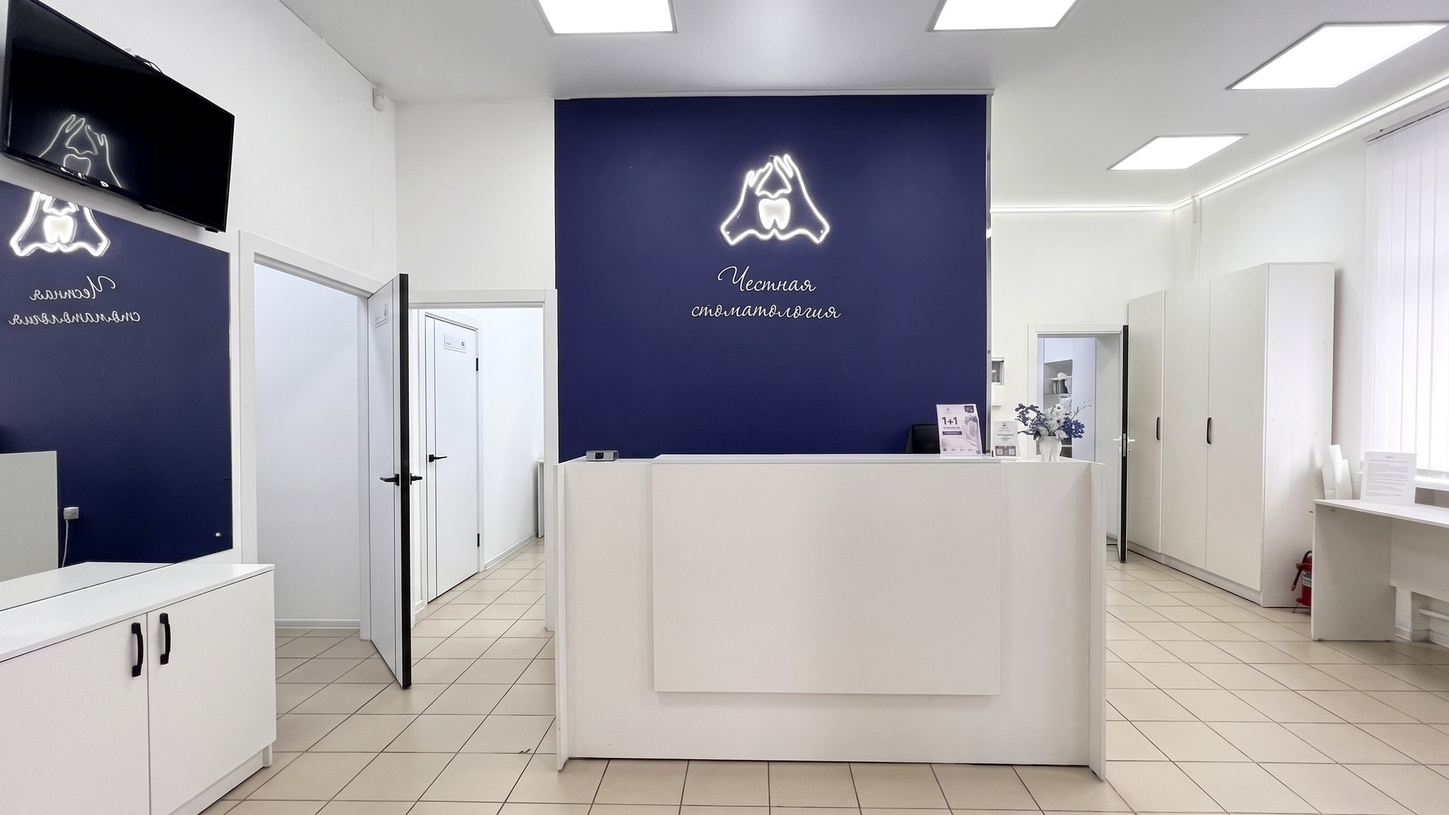
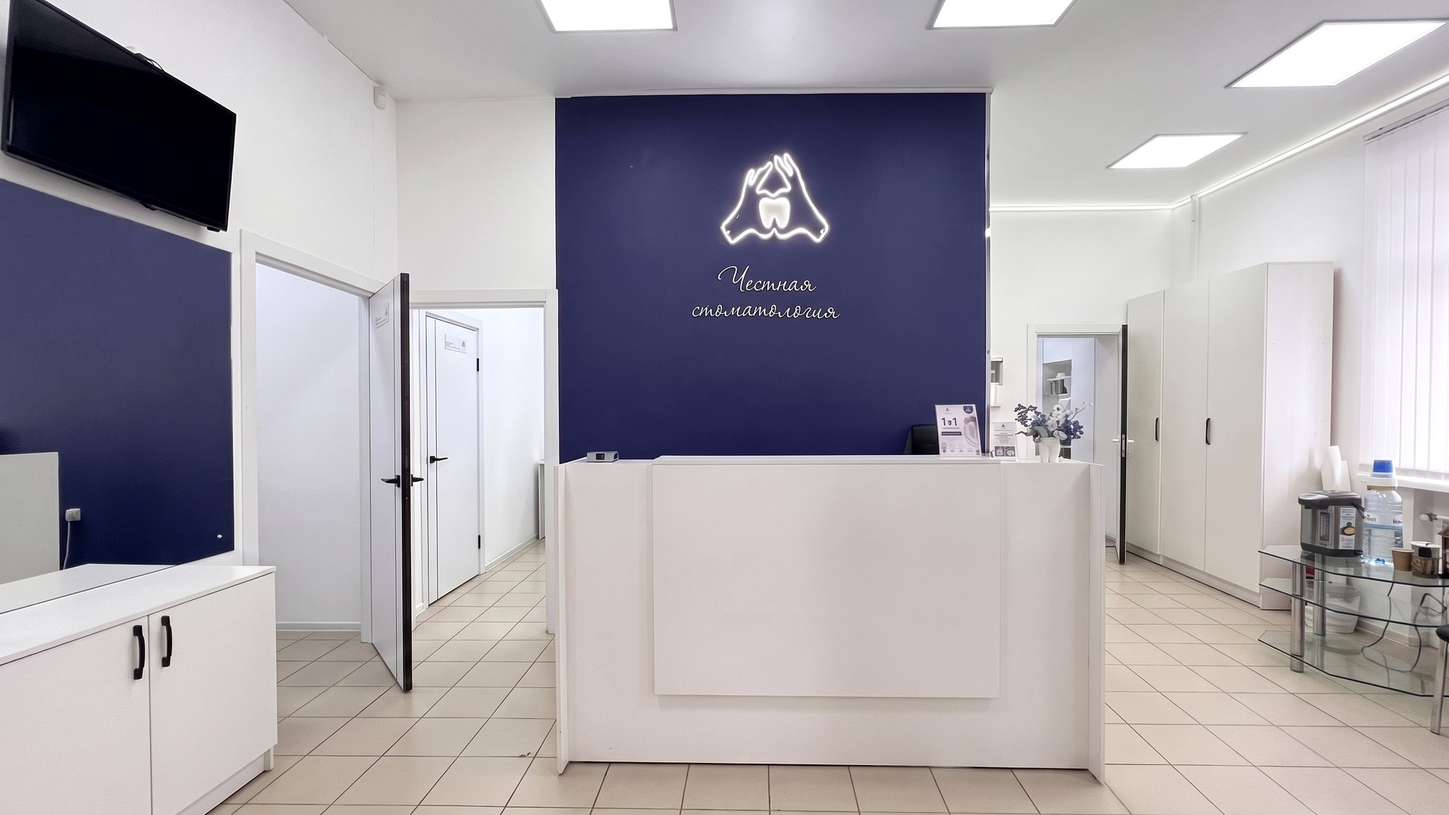
Рецепция: чистые отражения и столик с кулером справа
Логотип клиники отражался в телевизоре и в зеркале — получалось, что
эмблема висит в комнате трижды. Теперь экран выключен, а зеркало
отражает только стену; настоящий логотип остался один, на индиговой
стене за стойкой.

Справа вместо придуманной мебели стоит стеклянный столик с кулером —
такой же, как в зоне ожидания, без стула рядом.

diff --git a/konsultatsiya.html b/konsultatsiya.html
@@ -32,7 +32,7 @@ try {
 <link rel="preconnect" href="https://fonts.googleapis.com">
 <link rel="preconnect" href="https://fonts.gstatic.com" crossorigin>
 <link href="https://fonts.googleapis.com/css2?family=Unbounded:wght@500;700;900&family=Manrope:wght@400;500;700;800&display=swap" rel="stylesheet">
-<link rel="stylesheet" href="styles.css?v=20260828h">
+<link rel="stylesheet" href="styles.css?v=20260828i">
 <script type="application/ld+json">{"@context": "https://schema.org", "@type": "Service", "name": "Приём и консультация стоматолога", "serviceType": "Приём и консультация стоматолога", "provider": {"@type": "Dentist", "name": "Честная стоматология", "address": {"@type": "PostalAddress", "streetAddress": "ул. Танкистов, 68", "addressLocality": "Пермь", "postalCode": "614095", "addressCountry": "RU"}, "telephone": "+79991152419"}, "areaServed": "Пермь", "offers": {"@type": "Offer", "price": "600", "priceCurrency": "RUB"}}</script>
 <script type="application/ld+json">{"@context": "https://schema.org", "@type": "FAQPage", "mainEntity": [{"@type": "Question", "name": "Нужно ли готовиться к консультации?", "acceptedAnswer": {"@type": "Answer", "text": "Нет, особой подготовки не требуется. Если есть снимки из других клиник — возьмите их с собой."}}, {"@type": "Question", "name": "Обязательно ли лечиться после консультации именно у вас?", "acceptedAnswer": {"@type": "Answer", "text": "Нет. План лечения и смета остаются у вас — решение вы принимаете без давления."}}, {"@type": "Question", "name": "Сколько действует смета?", "acceptedAnswer": {"@type": "Answer", "text": "Смета фиксируется в договоре до начала лечения и не меняется в процессе."}}]}</script>
 </head>
@@ -172,11 +172,11 @@ try {
 </div>
 
 <script>window.SERVICE_ID = "konsultatsiya";</script>
-<script src="db.js?v=20260828h"></script>
-<script src="md.js?v=20260828h"></script>
-<script src="services-data.js?v=20260828h"></script>
-<script src="ux.js?v=20260828h"></script>
-<script src="service.js?v=20260828h"></script>
-<script src="a11y.js?v=20260828h"></script>
+<script src="db.js?v=20260828i"></script>
+<script src="md.js?v=20260828i"></script>
+<script src="services-data.js?v=20260828i"></script>
+<script src="ux.js?v=20260828i"></script>
+<script src="service.js?v=20260828i"></script>
+<script src="a11y.js?v=20260828i"></script>
 </body>
 </html>

diff --git a/profgigiena.html b/profgigiena.html
@@ -32,7 +32,7 @@ try {
 <link rel="preconnect" href="https://fonts.googleapis.com">
 <link rel="preconnect" href="https://fonts.gstatic.com" crossorigin>
 <link href="https://fonts.googleapis.com/css2?family=Unbounded:wght@500;700;900&family=Manrope:wght@400;500;700;800&display=swap" rel="stylesheet">
-<link rel="stylesheet" href="styles.css?v=20260828h">
+<link rel="stylesheet" href="styles.css?v=20260828i">
 <script type="application/ld+json">{"@context": "https://schema.org", "@type": "Service", "name": "Профессиональная гигиена полости рта", "serviceType": "Профессиональная гигиена полости рта", "provider": {"@type": "Dentist", "name": "Честная стоматология", "address": {"@type": "PostalAddress", "streetAddress": "ул. Танкистов, 68", "addressLocality": "Пермь", "postalCode": "614095", "addressCountry": "RU"}, "telephone": "+79991152419"}, "areaServed": "Пермь", "offers": {"@type": "Offer", "price": "4900", "priceCurrency": "RUB"}}</script>
 <script type="application/ld+json">{"@context": "https://schema.org", "@type": "FAQPage", "mainEntity": [{"@type": "Question", "name": "Как часто нужно делать профгигиену?", "acceptedAnswer": {"@type": "Answer", "text": "Раз в полгода — регулярная гигиена в разы снижает риск кариеса."}}, {"@type": "Question", "name": "Есть ли акция?", "acceptedAnswer": {"@type": "Answer", "text": "Да, до 31.08.2026 чистка 1+1 для двоих — всего 6 990 ₽."}}, {"@type": "Question", "name": "Отбеливает ли чистка зубы?", "acceptedAnswer": {"@type": "Answer", "text": "Air-Flow возвращает естественный цвет эмали, убирая налёт от кофе, чая и курения."}}]}</script>
 </head>
@@ -172,11 +172,11 @@ try {
 </div>
 
 <script>window.SERVICE_ID = "profgigiena";</script>
-<script src="db.js?v=20260828h"></script>
-<script src="md.js?v=20260828h"></script>
-<script src="services-data.js?v=20260828h"></script>
-<script src="ux.js?v=20260828h"></script>
-<script src="service.js?v=20260828h"></script>
-<script src="a11y.js?v=20260828h"></script>
+<script src="db.js?v=20260828i"></script>
+<script src="md.js?v=20260828i"></script>
+<script src="services-data.js?v=20260828i"></script>
+<script src="ux.js?v=20260828i"></script>
+<script src="service.js?v=20260828i"></script>
+<script src="a11y.js?v=20260828i"></script>
 </body>
 </html>

diff --git a/protezirovanie.html b/protezirovanie.html
@@ -32,7 +32,7 @@ try {
 <link rel="preconnect" href="https://fonts.googleapis.com">
 <link rel="preconnect" href="https://fonts.gstatic.com" crossorigin>
 <link href="https://fonts.googleapis.com/css2?family=Unbounded:wght@500;700;900&family=Manrope:wght@400;500;700;800&display=swap" rel="stylesheet">
-<link rel="stylesheet" href="styles.css?v=20260828h">
+<link rel="stylesheet" href="styles.css?v=20260828i">
 <script type="application/ld+json">{"@context": "https://schema.org", "@type": "Service", "name": "Протезирование зубов", "serviceType": "Протезирование зубов", "provider": {"@type": "Dentist", "name": "Честная стоматология", "address": {"@type": "PostalAddress", "streetAddress": "ул. Танкистов, 68", "addressLocality": "Пермь", "postalCode": "614095", "addressCountry": "RU"}, "telephone": "+79991152419"}, "areaServed": "Пермь", "offers": {"@type": "Offer", "price": "10440", "priceCurrency": "RUB"}}</script>
 <script type="application/ld+json">{"@context": "https://schema.org", "@type": "FAQPage", "mainEntity": [{"@type": "Question", "name": "Что значит «под ключ»?", "acceptedAnswer": {"@type": "Answer", "text": "В цену включены все этапы: подготовка, слепки, изготовление, примерка и фиксация."}}, {"@type": "Question", "name": "Какая коронка лучше?", "acceptedAnswer": {"@type": "Answer", "text": "Цельнолитая — бюджетный вариант для жевательных зубов, циркониевая — эстетичнее, по акции 24 500 ₽."}}, {"@type": "Question", "name": "Больно ли ставить коронку?", "acceptedAnswer": {"@type": "Answer", "text": "Все этапы проходят с анестезией."}}]}</script>
 </head>
@@ -172,11 +172,11 @@ try {
 </div>
 
 <script>window.SERVICE_ID = "protezirovanie";</script>
-<script src="db.js?v=20260828h"></script>
-<script src="md.js?v=20260828h"></script>
-<script src="services-data.js?v=20260828h"></script>
-<script src="ux.js?v=20260828h"></script>
-<script src="service.js?v=20260828h"></script>
-<script src="a11y.js?v=20260828h"></script>
+<script src="db.js?v=20260828i"></script>
+<script src="md.js?v=20260828i"></script>
+<script src="services-data.js?v=20260828i"></script>
+<script src="ux.js?v=20260828i"></script>
+<script src="service.js?v=20260828i"></script>
+<script src="a11y.js?v=20260828i"></script>
 </body>
 </html>

diff --git a/lechenie-kariesa.html b/lechenie-kariesa.html
@@ -32,7 +32,7 @@ try {
 <link rel="preconnect" href="https://fonts.googleapis.com">
 <link rel="preconnect" href="https://fonts.gstatic.com" crossorigin>
 <link href="https://fonts.googleapis.com/css2?family=Unbounded:wght@500;700;900&family=Manrope:wght@400;500;700;800&display=swap" rel="stylesheet">
-<link rel="stylesheet" href="styles.css?v=20260828h">
+<link rel="stylesheet" href="styles.css?v=20260828i">
 <script type="application/ld+json">{"@context": "https://schema.org", "@type": "Service", "name": "Лечение кариеса", "serviceType": "Лечение кариеса", "provider": {"@type": "Dentist", "name": "Честная стоматология", "address": {"@type": "PostalAddress", "streetAddress": "ул. Танкистов, 68", "addressLocality": "Пермь", "postalCode": "614095", "addressCountry": "RU"}, "telephone": "+79991152419"}, "areaServed": "Пермь", "offers": {"@type": "Offer", "price": "4000", "priceCurrency": "RUB"}}</script>
 <script type="application/ld+json">{"@context": "https://schema.org", "@type": "FAQPage", "mainEntity": [{"@type": "Question", "name": "Больно ли лечить кариес?", "acceptedAnswer": {"@type": "Answer", "text": "Нет, используем современную анестезию — пациенты не чувствуют даже укол."}}, {"@type": "Question", "name": "Действует ли скидка?", "acceptedAnswer": {"@type": "Answer", "text": "Да, до 31.08.2026 — скидка 15% на лечение кариеса при прохождении профгигиены."}}, {"@type": "Question", "name": "Что будет, если кариес не лечить?", "acceptedAnswer": {"@type": "Answer", "text": "Кариес перейдёт в пульпит — лечение будет дольше и дороже."}}]}</script>
 </head>
@@ -172,11 +172,11 @@ try {
 </div>
 
 <script>window.SERVICE_ID = "lechenie-kariesa";</script>
-<script src="db.js?v=20260828h"></script>
-<script src="md.js?v=20260828h"></script>
-<script src="services-data.js?v=20260828h"></script>
-<script src="ux.js?v=20260828h"></script>
-<script src="service.js?v=20260828h"></script>
-<script src="a11y.js?v=20260828h"></script>
+<script src="db.js?v=20260828i"></script>
+<script src="md.js?v=20260828i"></script>
+<script src="services-data.js?v=20260828i"></script>
+<script src="ux.js?v=20260828i"></script>
+<script src="service.js?v=20260828i"></script>
+<script src="a11y.js?v=20260828i"></script>
 </body>
 </html>

diff --git a/restavratsiya.html b/restavratsiya.html
@@ -32,7 +32,7 @@ try {
 <link rel="preconnect" href="https://fonts.googleapis.com">
 <link rel="preconnect" href="https://fonts.gstatic.com" crossorigin>
 <link href="https://fonts.googleapis.com/css2?family=Unbounded:wght@500;700;900&family=Manrope:wght@400;500;700;800&display=swap" rel="stylesheet">
-<link rel="stylesheet" href="styles.css?v=20260828h">
+<link rel="stylesheet" href="styles.css?v=20260828i">
 <script type="application/ld+json">{"@context": "https://schema.org", "@type": "Service", "name": "Эстетическая реставрация зубов", "serviceType": "Эстетическая реставрация зубов", "provider": {"@type": "Dentist", "name": "Честная стоматология", "address": {"@type": "PostalAddress", "streetAddress": "ул. Танкистов, 68", "addressLocality": "Пермь", "postalCode": "614095", "addressCountry": "RU"}, "telephone": "+79991152419"}, "areaServed": "Пермь", "offers": {"@type": "Offer", "price": "3500", "priceCurrency": "RUB"}}</script>
 <script type="application/ld+json">{"@context": "https://schema.org", "@type": "FAQPage", "mainEntity": [{"@type": "Question", "name": "Чем реставрация отличается от коронки?", "acceptedAnswer": {"@type": "Answer", "text": "Реставрация делается композитом за один визит и не требует обточки зуба."}}, {"@type": "Question", "name": "Сколько держится реставрация?", "acceptedAnswer": {"@type": "Answer", "text": "При правильном уходе — 5–10 лет."}}, {"@type": "Question", "name": "Можно ли закрыть щель между передними зубами?", "acceptedAnswer": {"@type": "Answer", "text": "Да, это решается за один визит."}}]}</script>
 </head>
@@ -172,11 +172,11 @@ try {
 </div>
 
 <script>window.SERVICE_ID = "restavratsiya";</script>
-<script src="db.js?v=20260828h"></script>
-<script src="md.js?v=20260828h"></script>
-<script src="services-data.js?v=20260828h"></script>
-<script src="ux.js?v=20260828h"></script>
-<script src="service.js?v=20260828h"></script>
-<script src="a11y.js?v=20260828h"></script>
+<script src="db.js?v=20260828i"></script>
+<script src="md.js?v=20260828i"></script>
+<script src="services-data.js?v=20260828i"></script>
+<script src="ux.js?v=20260828i"></script>
+<script src="service.js?v=20260828i"></script>
+<script src="a11y.js?v=20260828i"></script>
 </body>
 </html>

diff --git a/udalenie-zubov.html b/udalenie-zubov.html
@@ -32,7 +32,7 @@ try {
 <link rel="preconnect" href="https://fonts.googleapis.com">
 <link rel="preconnect" href="https://fonts.gstatic.com" crossorigin>
 <link href="https://fonts.googleapis.com/css2?family=Unbounded:wght@500;700;900&family=Manrope:wght@400;500;700;800&display=swap" rel="stylesheet">
-<link rel="stylesheet" href="styles.css?v=20260828h">
+<link rel="stylesheet" href="styles.css?v=20260828i">
 <script type="application/ld+json">{"@context": "https://schema.org", "@type": "Service", "name": "Удаление зубов", "serviceType": "Удаление зубов", "provider": {"@type": "Dentist", "name": "Честная стоматология", "address": {"@type": "PostalAddress", "streetAddress": "ул. Танкистов, 68", "addressLocality": "Пермь", "postalCode": "614095", "addressCountry": "RU"}, "telephone": "+79991152419"}, "areaServed": "Пермь", "offers": {"@type": "Offer", "price": "2500", "priceCurrency": "RUB"}}</script>
 <script type="application/ld+json">{"@context": "https://schema.org", "@type": "FAQPage", "mainEntity": [{"@type": "Question", "name": "Вы сразу предложите удалить зуб?", "acceptedAnswer": {"@type": "Answer", "text": "Нет, наш принцип — сохранять зубы, которые можно вылечить."}}, {"@type": "Question", "name": "Принимаете ли вы с острой болью?", "acceptedAnswer": {"@type": "Answer", "text": "Да, есть неотложка для взрослых — постараемся принять в день обращения."}}, {"@type": "Question", "name": "Что делать после удаления?", "acceptedAnswer": {"@type": "Answer", "text": "Врач даст подробные рекомендации; при вопросах — звоните."}}]}</script>
 </head>
@@ -172,11 +172,11 @@ try {
 </div>
 
 <script>window.SERVICE_ID = "udalenie-zubov";</script>
-<script src="db.js?v=20260828h"></script>
-<script src="md.js?v=20260828h"></script>
-<script src="services-data.js?v=20260828h"></script>
-<script src="ux.js?v=20260828h"></script>
-<script src="service.js?v=20260828h"></script>
-<script src="a11y.js?v=20260828h"></script>
+<script src="db.js?v=20260828i"></script>
+<script src="md.js?v=20260828i"></script>
+<script src="services-data.js?v=20260828i"></script>
+<script src="ux.js?v=20260828i"></script>
+<script src="service.js?v=20260828i"></script>
+<script src="a11y.js?v=20260828i"></script>
 </body>
 </html>

diff --git a/index.html b/index.html
@@ -80,10 +80,10 @@ try {
 <link rel="preconnect" href="https://fonts.googleapis.com">
 <link rel="preconnect" href="https://fonts.gstatic.com" crossorigin>
 <link href="https://fonts.googleapis.com/css2?family=Unbounded:wght@500;700;900&family=Manrope:wght@400;500;700;800&family=Cairo:wght@400;600;800&display=swap" rel="stylesheet">
-<link rel="stylesheet" href="styles.css?v=20260828h">
-<link rel="stylesheet" href="effects.css?v=20260828h">
-<link rel="stylesheet" href="cards-fx.css?v=20260828h">
-<link rel="stylesheet" href="polish.css?v=20260828h">
+<link rel="stylesheet" href="styles.css?v=20260828i">
+<link rel="stylesheet" href="effects.css?v=20260828i">
+<link rel="stylesheet" href="cards-fx.css?v=20260828i">
+<link rel="stylesheet" href="polish.css?v=20260828i">
 </head>
 <body data-theme="deep">
 <a class="skip-link" href="#care">Перейти к содержанию</a>
@@ -644,20 +644,20 @@ try {
   </div>
 </div>
 
-<script src="i18n.js?v=20260828h"></script>
-<script src="db.js?v=20260828h"></script>
-<script src="auth.js?v=20260828h"></script>
-<script src="md.js?v=20260828h"></script>
-<script src="ux.js?v=20260828h"></script>
-<script src="app.js?v=20260828h"></script>
-<script src="water.js?v=20260828h" defer></script>
-<script src="effects.js?v=20260828h" defer></script>
-<script src="teeth-map.js?v=20260828h" defer></script>
-<script src="hero-seq.js?v=20260828h" defer></script>
-<script src="tour.js?v=20260828h" defer></script>
-<script src="cards-fx.js?v=20260828h" defer></script>
-<script src="motion-fx.js?v=20260828h" defer></script>
-<script src="polish.js?v=20260828h" defer></script>
-<script src="a11y.js?v=20260828h"></script>
+<script src="i18n.js?v=20260828i"></script>
+<script src="db.js?v=20260828i"></script>
+<script src="auth.js?v=20260828i"></script>
+<script src="md.js?v=20260828i"></script>
+<script src="ux.js?v=20260828i"></script>
+<script src="app.js?v=20260828i"></script>
+<script src="water.js?v=20260828i" defer></script>
+<script src="effects.js?v=20260828i" defer></script>
+<script src="teeth-map.js?v=20260828i" defer></script>
+<script src="hero-seq.js?v=20260828i" defer></script>
+<script src="tour.js?v=20260828i" defer></script>
+<script src="cards-fx.js?v=20260828i" defer></script>
+<script src="motion-fx.js?v=20260828i" defer></script>
+<script src="polish.js?v=20260828i" defer></script>
+<script src="a11y.js?v=20260828i"></script>
 </body>
 </html>

diff --git a/admin.html b/admin.html
@@ -20,8 +20,8 @@ try { if (!localStorage.getItem("chestom_session")) location.replace("login.html
 <link rel="preconnect" href="https://fonts.googleapis.com">
 <link rel="preconnect" href="https://fonts.gstatic.com" crossorigin>
 <link href="https://fonts.googleapis.com/css2?family=Unbounded:wght@500;700&family=Manrope:wght@400;500;700;800&display=swap" rel="stylesheet">
-<link rel="stylesheet" href="styles.css?v=20260828h">
-<link rel="stylesheet" href="admin.css?v=20260828h">
+<link rel="stylesheet" href="styles.css?v=20260828i">
+<link rel="stylesheet" href="admin.css?v=20260828i">
 </head>
 <body class="adm-body">
 
@@ -303,10 +303,10 @@ try { if (!localStorage.getItem("chestom_session")) location.replace("login.html
   </div>
 </div>
 
-<script src="db.js?v=20260828h"></script>
-<script src="auth.js?v=20260828h"></script>
-<script src="md.js?v=20260828h"></script>
-<script src="admin.js?v=20260828h"></script>
-<script src="a11y.js?v=20260828h"></script>
+<script src="db.js?v=20260828i"></script>
+<script src="auth.js?v=20260828i"></script>
+<script src="md.js?v=20260828i"></script>
+<script src="admin.js?v=20260828i"></script>
+<script src="a11y.js?v=20260828i"></script>
 </body>
 </html>

diff --git a/_service_template.html b/_service_template.html
@@ -27,7 +27,7 @@ try {
 <link rel="preconnect" href="https://fonts.googleapis.com">
 <link rel="preconnect" href="https://fonts.gstatic.com" crossorigin>
 <link href="https://fonts.googleapis.com/css2?family=Unbounded:wght@500;700;900&family=Manrope:wght@400;500;700;800&display=swap" rel="stylesheet">
-<link rel="stylesheet" href="styles.css?v=20260828h">
+<link rel="stylesheet" href="styles.css?v=20260828i">
 <script type="application/ld+json">{{LD_SERVICE}}</script>
 <script type="application/ld+json">{{LD_FAQ}}</script>
 </head>
@@ -167,11 +167,11 @@ try {
 </div>
 
 <script>window.SERVICE_ID = "{{SLUG}}";</script>
-<script src="db.js?v=20260828h"></script>
-<script src="md.js?v=20260828h"></script>
-<script src="services-data.js?v=20260828h"></script>
-<script src="ux.js?v=20260828h"></script>
-<script src="service.js?v=20260828h"></script>
-<script src="a11y.js?v=20260828h"></script>
+<script src="db.js?v=20260828i"></script>
+<script src="md.js?v=20260828i"></script>
+<script src="services-data.js?v=20260828i"></script>
+<script src="ux.js?v=20260828i"></script>
+<script src="service.js?v=20260828i"></script>
+<script src="a11y.js?v=20260828i"></script>
 </body>
 </html>

diff --git a/404.html b/404.html
@@ -19,7 +19,7 @@ try {
 <link rel="preconnect" href="https://fonts.googleapis.com">
 <link rel="preconnect" href="https://fonts.gstatic.com" crossorigin>
 <link href="https://fonts.googleapis.com/css2?family=Unbounded:wght@700&family=Manrope:wght@400;700&display=swap" rel="stylesheet">
-<link rel="stylesheet" href="styles.css?v=20260828h">
+<link rel="stylesheet" href="styles.css?v=20260828i">
 <style>
   .nf { min-height: 100svh; display: flex; flex-direction: column; align-items: center; justify-content: center; text-align: center; padding: 24px; gap: 18px; }
   .nf__tooth { width: 120px; opacity: 0.85; filter: drop-shadow(0 16px 50px rgba(122, 108, 240,0.35)); animation: nfFloat 4s ease-in-out infinite alternate; }
@@ -40,6 +40,6 @@ try {
   <a class="btn btn--primary btn--lg" href="index.html">На главную</a>
   <a class="btn btn--ghost" href="tel:+79991152419">Позвонить: +7 999 115-24-19</a>
 </main>
-<script src="a11y.js?v=20260828h"></script>
+<script src="a11y.js?v=20260828i"></script>
 </body>
 </html>

diff --git a/doctor.html b/doctor.html
@@ -27,7 +27,7 @@ try {
 <link rel="preconnect" href="https://fonts.googleapis.com">
 <link rel="preconnect" href="https://fonts.gstatic.com" crossorigin>
 <link href="https://fonts.googleapis.com/css2?family=Unbounded:wght@500;700;900&family=Manrope:wght@400;500;700;800&display=swap" rel="stylesheet">
-<link rel="stylesheet" href="styles.css?v=20260828h">
+<link rel="stylesheet" href="styles.css?v=20260828i">
 </head>
 <body>
 
@@ -138,10 +138,10 @@ try {
   </div>
 </div>
 
-<script src="db.js?v=20260828h"></script>
-<script src="md.js?v=20260828h"></script>
-<script src="ux.js?v=20260828h"></script>
-<script src="doctor.js?v=20260828h"></script>
-<script src="a11y.js?v=20260828h"></script>
+<script src="db.js?v=20260828i"></script>
+<script src="md.js?v=20260828i"></script>
+<script src="ux.js?v=20260828i"></script>
+<script src="doctor.js?v=20260828i"></script>
+<script src="a11y.js?v=20260828i"></script>
 </body>
 </html>

diff --git a/login.html b/login.html
@@ -19,7 +19,7 @@ try {
 <link rel="preconnect" href="https://fonts.googleapis.com">
 <link rel="preconnect" href="https://fonts.gstatic.com" crossorigin>
 <link href="https://fonts.googleapis.com/css2?family=Unbounded:wght@500;700&family=Manrope:wght@400;500;700;800&display=swap" rel="stylesheet">
-<link rel="stylesheet" href="styles.css?v=20260828h">
+<link rel="stylesheet" href="styles.css?v=20260828i">
 <style>
   .login {
     min-height: 100svh; display: flex; align-items: center; justify-content: center;
@@ -88,8 +88,8 @@ try {
   </form>
 </main>
 
-<script src="db.js?v=20260828h"></script>
-<script src="auth.js?v=20260828h"></script>
+<script src="db.js?v=20260828i"></script>
+<script src="auth.js?v=20260828i"></script>
 <script>
 (() => {
   "use strict";
@@ -111,6 +111,6 @@ try {
   });
 })();
 </script>
-<script src="a11y.js?v=20260828h"></script>
+<script src="a11y.js?v=20260828i"></script>
 </body>
 </html>
